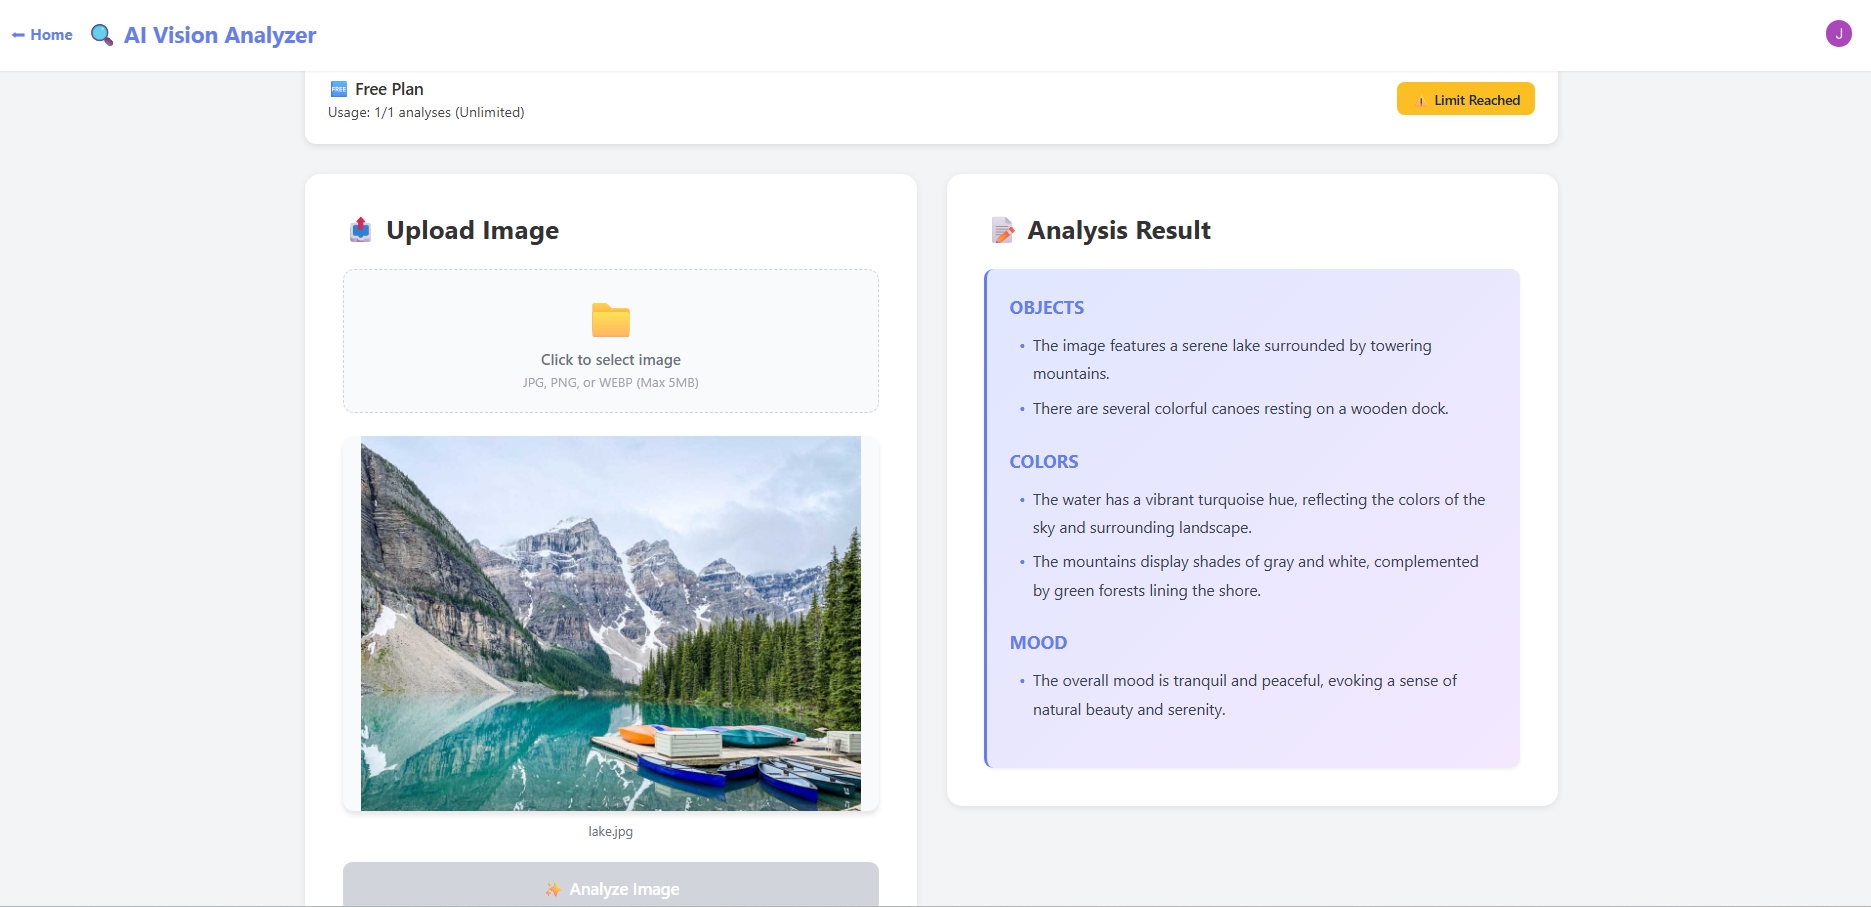
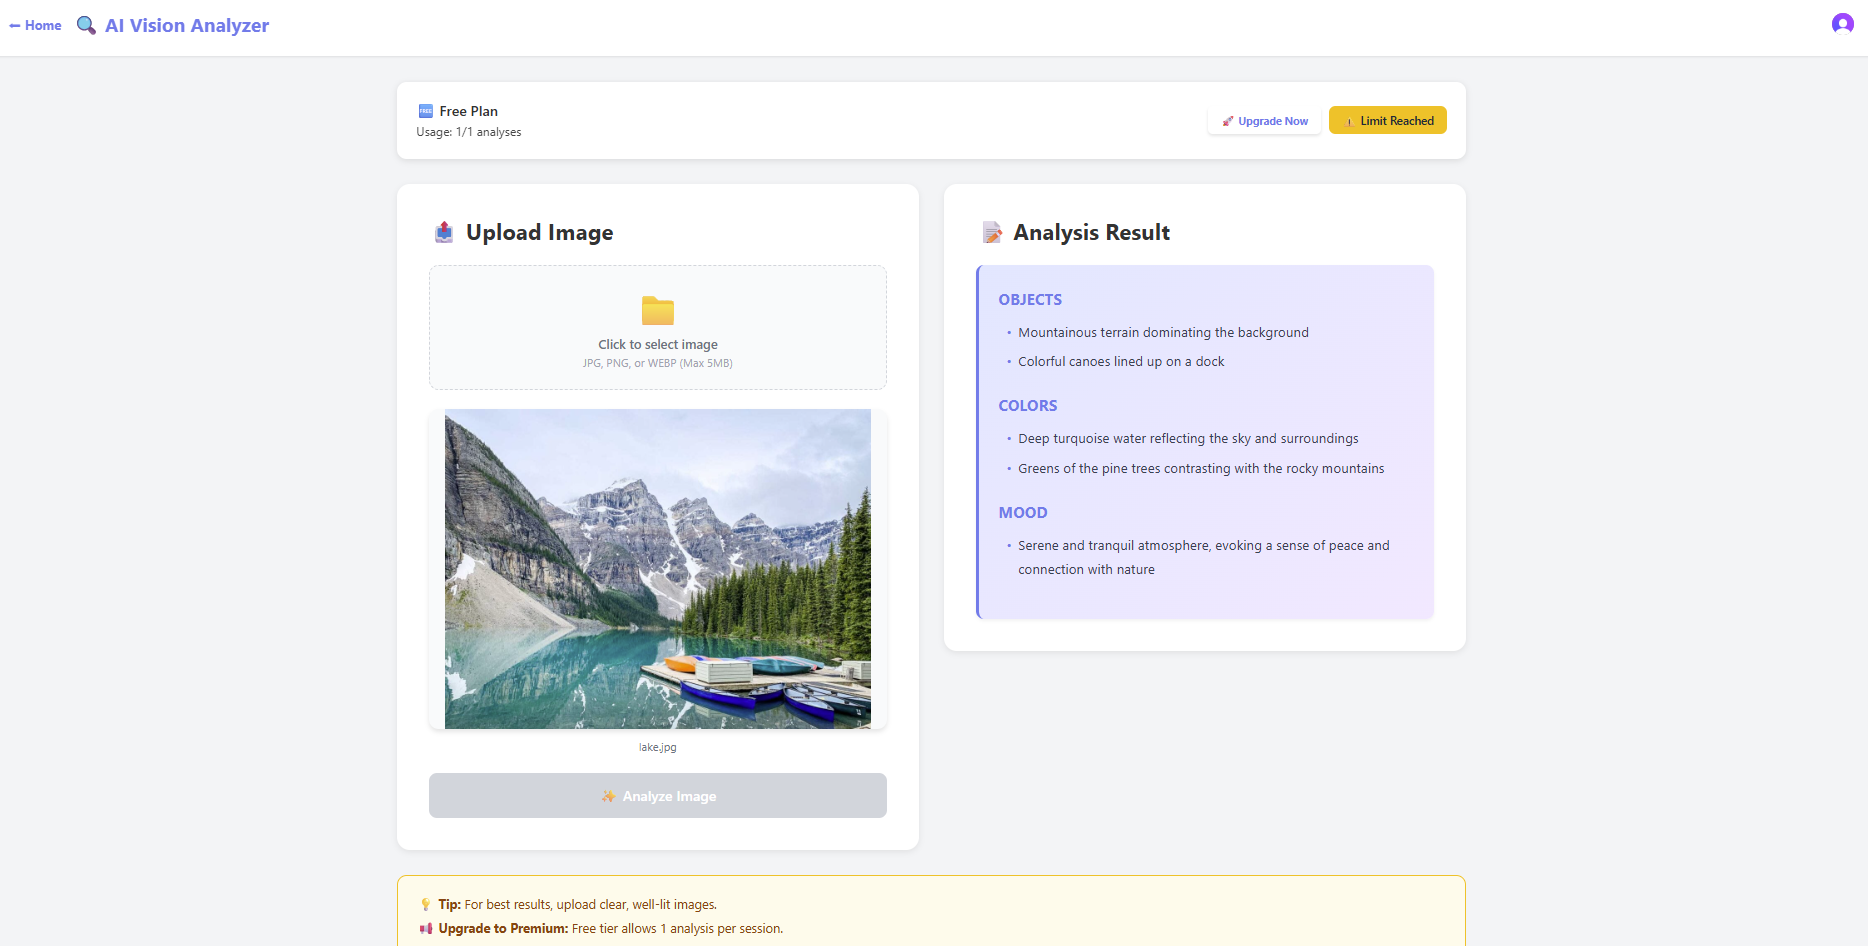
feat: add upgrade button for free tier users

diff --git a/pages/analyze.tsx b/pages/analyze.tsx
@@ -33,7 +33,7 @@ export default function Analyze() {
   const fetchUsage = async () => {
     try {
       setRefreshing(true);
-      const token = await getToken(); // REMOVED { template: 'default' }
+      const token = await getToken();
       
       console.log('=== FETCHING USAGE ===');
       console.log('User metadata from Clerk:', user?.publicMetadata);
@@ -171,13 +171,32 @@ export default function Analyze() {
             <div className="usage-header">
               <div>
                 <p className="usage-plan">
-                  {currentTier === 'premium' ? '✨ Premium Plan' : '🆓 Free Plan'}
+                  {currentTier === 'premium' ? '✨ Premium Plan (Unlimited)' : '🆓 Free Plan'}
                 </p>
                 <p className="usage-stats">
-                  Usage: {currentUsage}/{currentTier === 'premium' ? '∞' : usageLimit} analyses (Unlimited)
+                  Usage: {currentUsage}/{currentTier === 'premium' ? '∞' : usageLimit} analyses
                 </p>
               </div>
               <div style={{ display: 'flex', gap: '10px', alignItems: 'center' }}>
+                {/* UPGRADE BUTTON ADDED HERE */}
+                {currentTier === 'free' && currentUsage >= 1 && (
+                  <button 
+                    onClick={() => window.alert('Upgrade to Premium to get unlimited analyses!')}
+                    style={{
+                      padding: '8px 16px',
+                      backgroundColor: '#fff',
+                      color: '#667eea',
+                      border: 'none',
+                      borderRadius: '6px',
+                      fontWeight: 'bold',
+                      cursor: 'pointer',
+                      boxShadow: '0 2px 4px rgba(0,0,0,0.1)'
+                    }}
+                  >
+                    🚀 Upgrade Now
+                  </button>
+                )}
+                
                 {currentTier === 'free' && currentUsage >= 1 && (
                   <div className="usage-warning">
                     ⚠ Limit Reached
